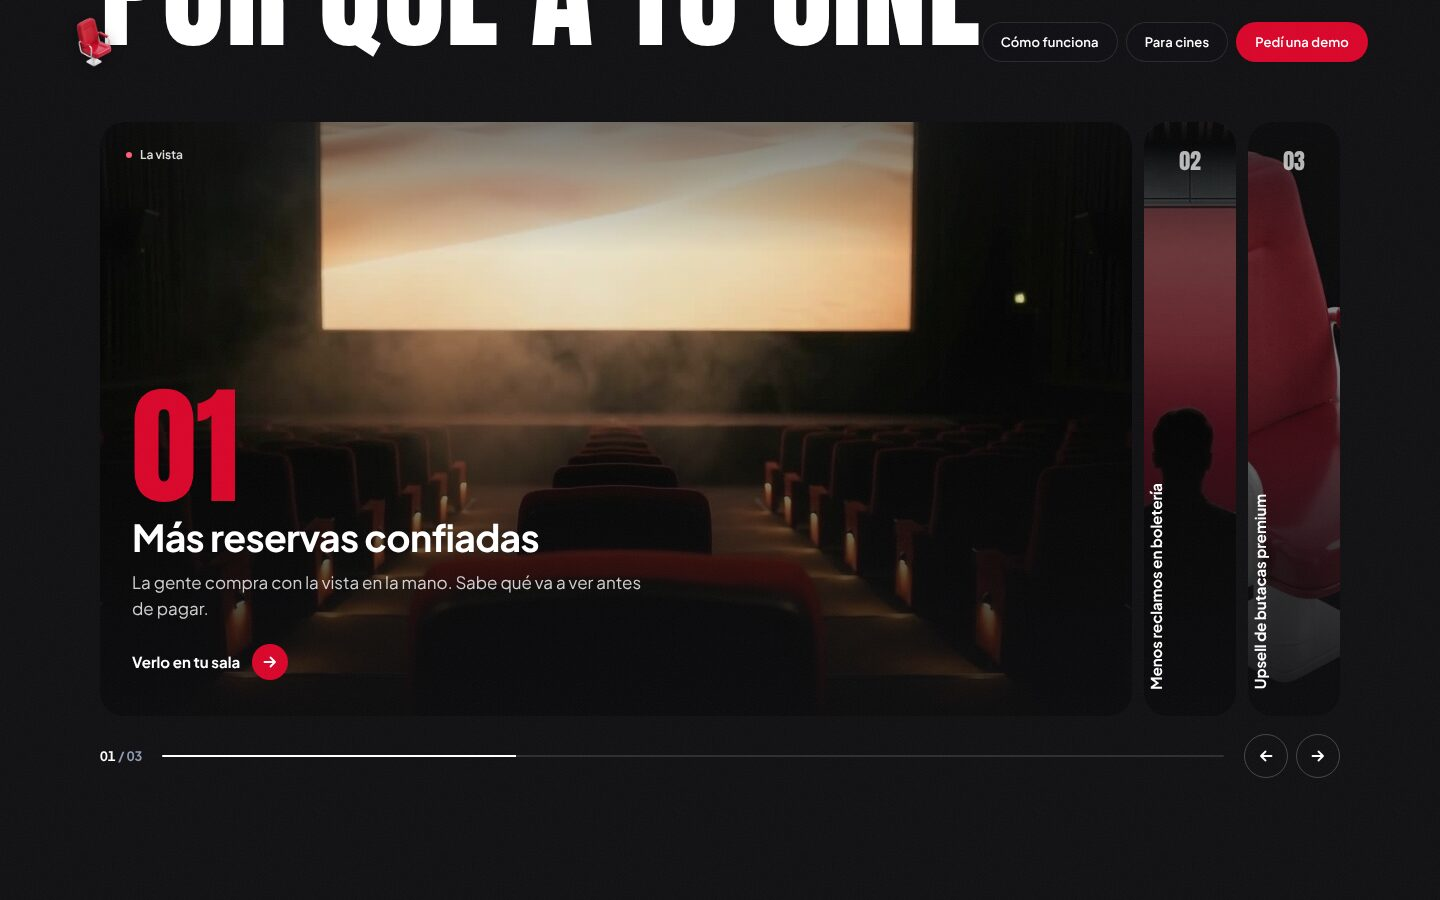
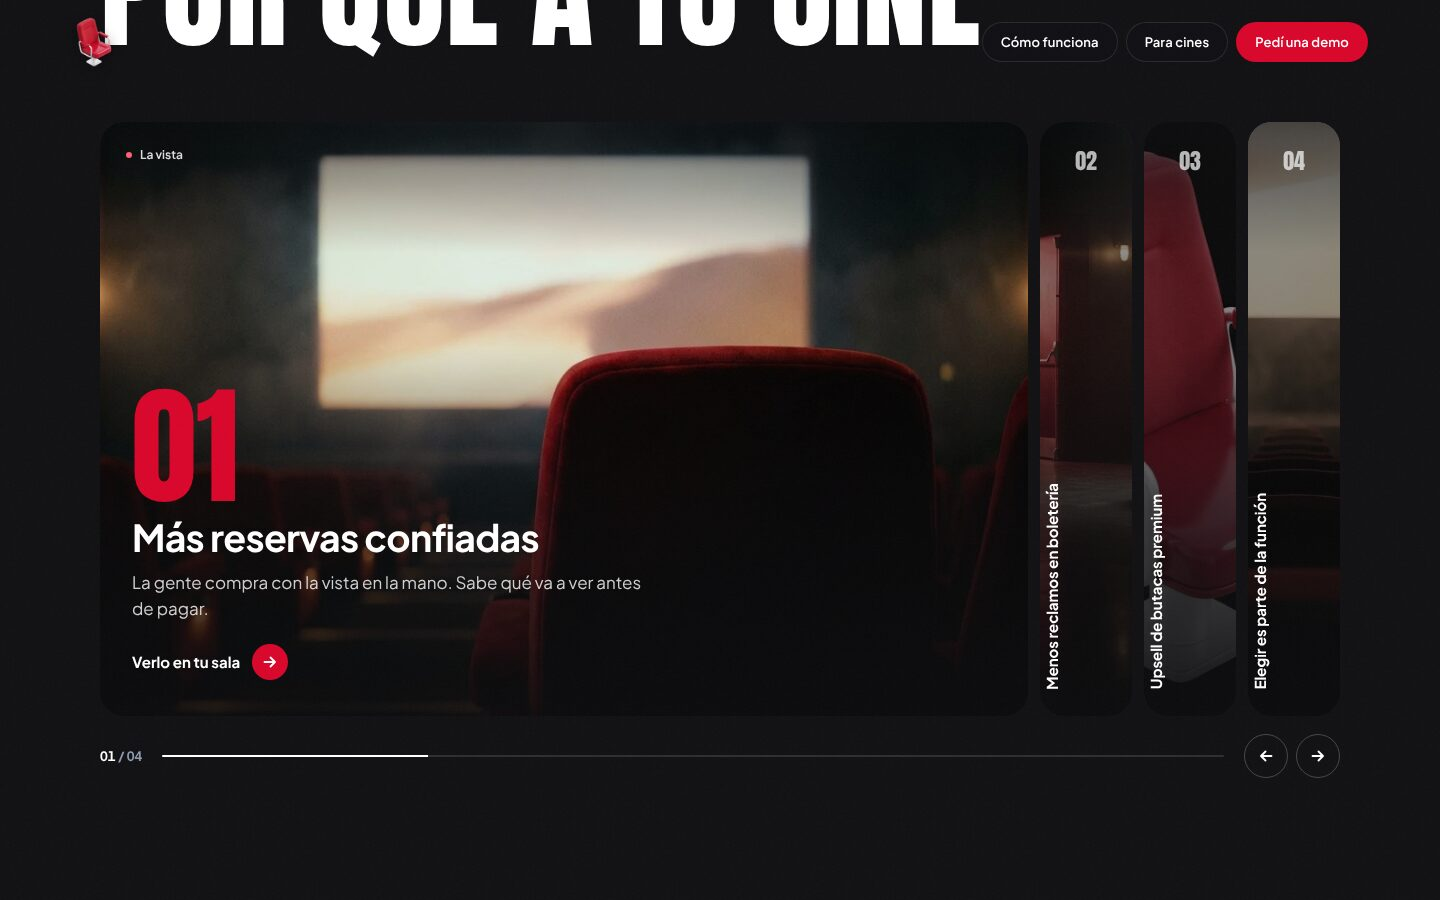
Reel: new art for cards 1-2, add a fourth benefit card
Cards 1 and 2 use the supplied square images (framed per breakpoint with
object-position). Card 4 'Elegir es parte de la función' uses a clip still
as a placeholder; card 3 keeps the chair placeholder until new art lands.

Claude-Session: https://claude.ai/code/session_01MN7WbNxdV5dMQKRJdDiPk1

Changed region(s): [[0.0625, 0.1244, 0.9375, 0.7778], [0.125, 0.6533, 0.1875, 0.7156], [0.1875, 0.7156, 0.2188, 0.7467]]

diff --git a/index.html b/index.html
@@ -162,7 +162,7 @@
         <div class="reel" data-reel>
           <div class="reel__track">
             <article class="reel__panel is-active">
-              <img class="reel__img" src="assets/cards/c1.jpg" width="1280" height="720" alt="Una butaca roja vista desde atrás, frente a la pantalla de la sala" loading="lazy" decoding="async">
+              <img class="reel__img reel__img--c1" src="assets/cards/c1.webp" width="1024" height="1024" alt="Una butaca roja vista desde atrás, frente a la pantalla de una sala oscura" loading="lazy" decoding="async">
               <span class="reel__tag" aria-hidden="true">La vista</span>
               <span class="reel__num-sm" aria-hidden="true">01</span>
               <span class="reel__vtitle" aria-hidden="true">Más reservas confiadas</span>
@@ -176,7 +176,7 @@
               </div>
             </article>
             <article class="reel__panel">
-              <img class="reel__img" src="assets/cards/c2.jpg" width="1280" height="720" alt="Una persona con su entrada en el lobby, frente a una pantalla roja" loading="lazy" decoding="async">
+              <img class="reel__img reel__img--c2" src="assets/cards/c2.webp" width="1024" height="1024" alt="Una persona con su entrada en la mano camina hacia la puerta iluminada de la sala" loading="lazy" decoding="async">
               <span class="reel__tag" aria-hidden="true">Boletería</span>
               <span class="reel__num-sm" aria-hidden="true">02</span>
               <span class="reel__vtitle" aria-hidden="true">Menos reclamos en boletería</span>
@@ -203,9 +203,23 @@
                 </div>
               </div>
             </article>
+            <article class="reel__panel">
+              <img class="reel__img reel__img--c4" src="assets/poster-02.jpg" width="1920" height="1080" alt="Vista desde atrás de una butaca roja, frente a la pantalla con un desierto proyectado" loading="lazy" decoding="async">
+              <span class="reel__tag" aria-hidden="true">La función</span>
+              <span class="reel__num-sm" aria-hidden="true">04</span>
+              <span class="reel__vtitle" aria-hidden="true">Elegir es parte de la función</span>
+              <div class="reel__content">
+                <span class="reel__num" aria-hidden="true">04</span>
+                <h3 class="reel__head"><button class="reel__tab" type="button" id="reel-t4" aria-controls="reel-b4" aria-expanded="false">Elegir es parte de la función</button></h3>
+                <div class="reel__body" id="reel-b4" role="region" aria-labelledby="reel-t4">
+                  <p>Elegir la butaca deja de ser un trámite. Es el primer momento de la película.</p>
+                  <a class="reel__link" href="#demo">Verlo en tu sala <span class="reel__go"><svg viewBox="0 0 16 16" width="16" height="16" aria-hidden="true"><path d="M2.5 8h10M8.5 3.5 13 8l-4.5 4.5" fill="none" stroke="currentColor" stroke-width="1.8" stroke-linecap="round" stroke-linejoin="round"/></svg></span></a>
+                </div>
+              </div>
+            </article>
           </div>
           <div class="reel__bar">
-            <p class="reel__count"><span data-reel-current>01</span> / 03</p>
+            <p class="reel__count"><span data-reel-current>01</span> / 04</p>
             <div class="reel__progress" aria-hidden="true"><span data-reel-progress></span></div>
             <div class="reel__nav">
               <button class="reel__btn" type="button" data-reel-prev aria-label="Beneficio anterior"><svg viewBox="0 0 16 16" width="16" height="16" aria-hidden="true"><path d="M13.5 8h-10M7.5 3.5 3 8l4.5 4.5" fill="none" stroke="currentColor" stroke-width="1.8" stroke-linecap="round" stroke-linejoin="round"/></svg></button>

diff --git a/css/styles.css b/css/styles.css
@@ -349,6 +349,8 @@ html.film-on .debug:not([hidden]) { display: block; position: absolute; inset: 0
   transition: transform 1.1s var(--ease), filter .7s var(--ease);
 }
 .reel__img--chair { object-position: 72% 50%; }
+.reel__img--c1 { object-position: 62% 56%; }
+.reel__img--c2 { object-position: 60% 52%; }
 .reel__panel::after {
   content: ""; position: absolute; inset: 0; z-index: -1; pointer-events: none;
   background: linear-gradient(0deg, rgba(10, 10, 12, .92) 0%, rgba(10, 10, 12, .55) 34%, rgba(10, 10, 12, 0) 62%),
@@ -391,7 +393,7 @@ html.film-on .debug:not([hidden]) { display: block; position: absolute; inset: 0
 .reel__count { font-size: 13px; font-weight: 700; color: var(--gris); font-variant-numeric: tabular-nums; }
 .reel__count span { color: var(--white); }
 .reel__progress { flex: 1; height: 2px; border-radius: 2px; background: rgba(255, 255, 255, .12); overflow: hidden; }
-.reel__progress span { display: block; height: 100%; width: 33.33%; background: var(--white); transition: width .6s var(--ease); }
+.reel__progress span { display: block; height: 100%; width: 25%; background: var(--white); transition: width .6s var(--ease); }
 .reel__nav { display: flex; gap: 8px; }
 .reel__btn {
   display: grid; place-items: center; width: 44px; height: 44px; border-radius: 50%; cursor: pointer;
@@ -512,7 +514,8 @@ html.film-on .debug:not([hidden]) { display: block; position: absolute; inset: 0
   .reel--on .reel__track { flex-direction: column; height: auto; gap: 10px; }
   .reel--on .reel__panel { flex: none; height: 76px; transition: height .7s var(--ease); }
   .reel--on .reel__panel.is-active { flex: none; height: min(500px, 70vh); }
-  .reel__vtitle { writing-mode: horizontal-tb; transform: none; left: 22px; right: 64px; bottom: 0; top: 0; align-items: center; justify-content: flex-start; font-size: 17px; }
+  .reel__vtitle { writing-mode: horizontal-tb; transform: none; left: 22px; right: 64px; bottom: 0; top: 0; align-items: center; justify-content: flex-start; font-size: 17px; overflow: hidden; }
+  .reel__vtitle { display: block; line-height: 76px; text-overflow: ellipsis; }
   .reel__num-sm { top: 0; bottom: 0; left: auto; right: 22px; display: flex; align-items: center; }
   .reel--on .reel__content { width: auto; }
   .reel__content { padding: 0 22px 22px; }
